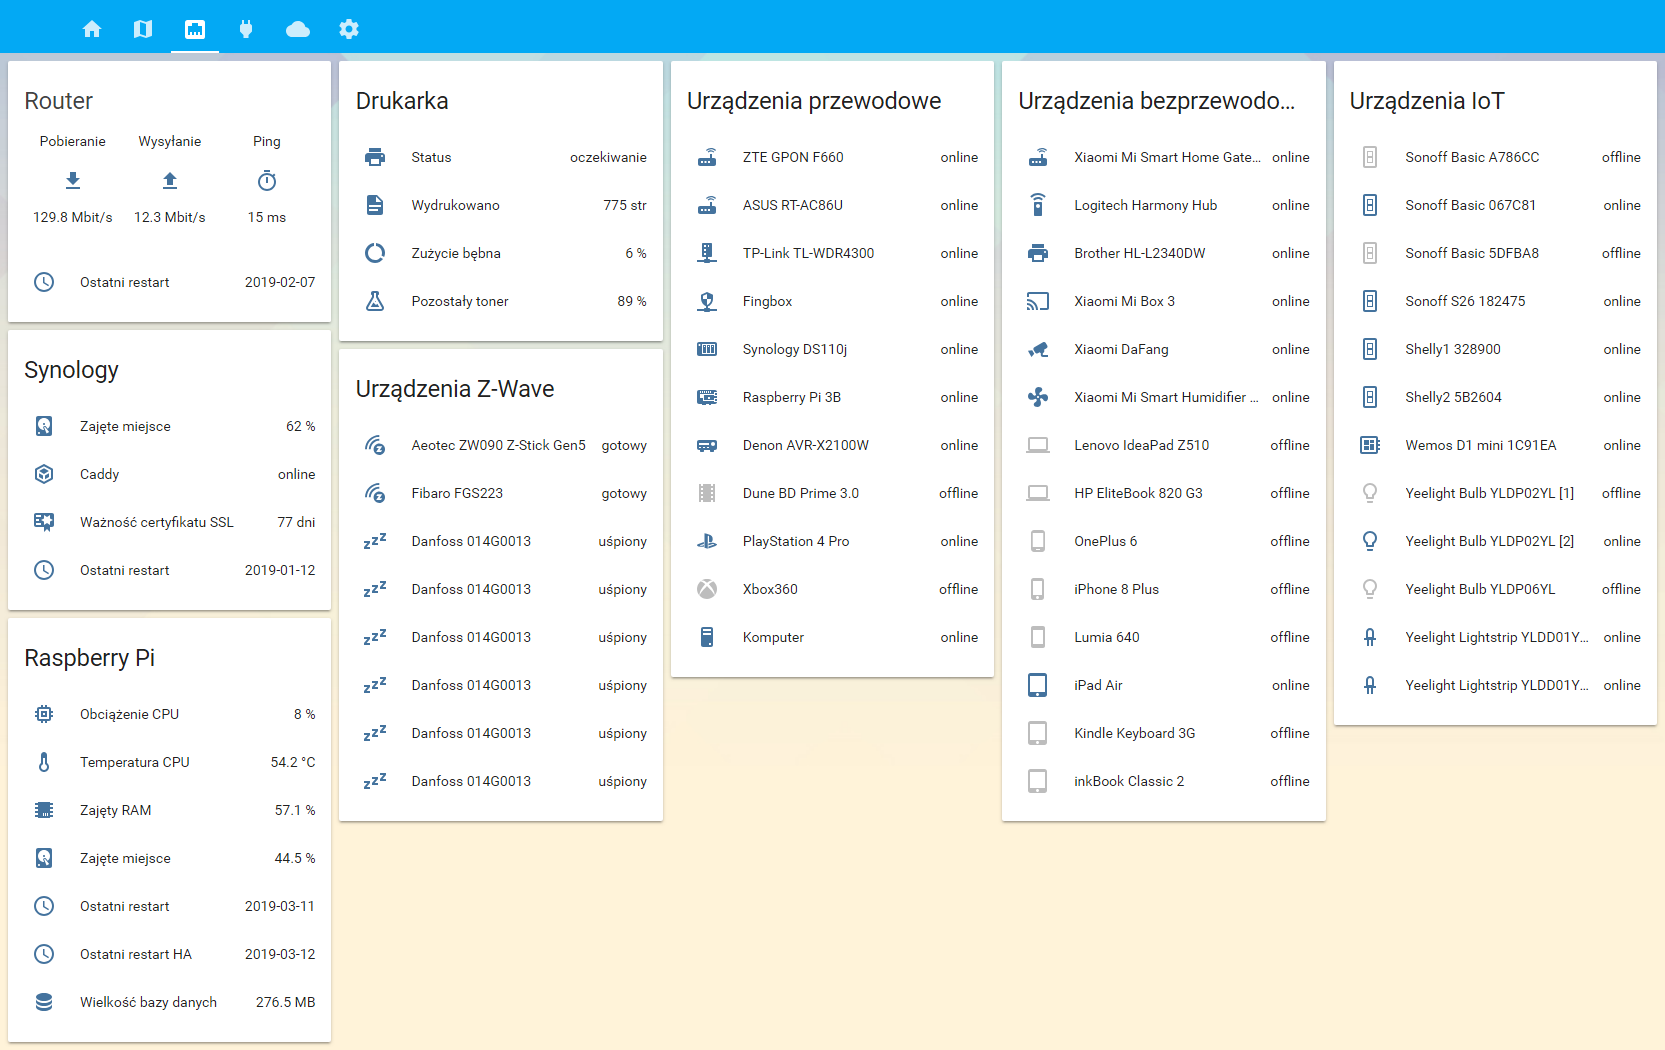
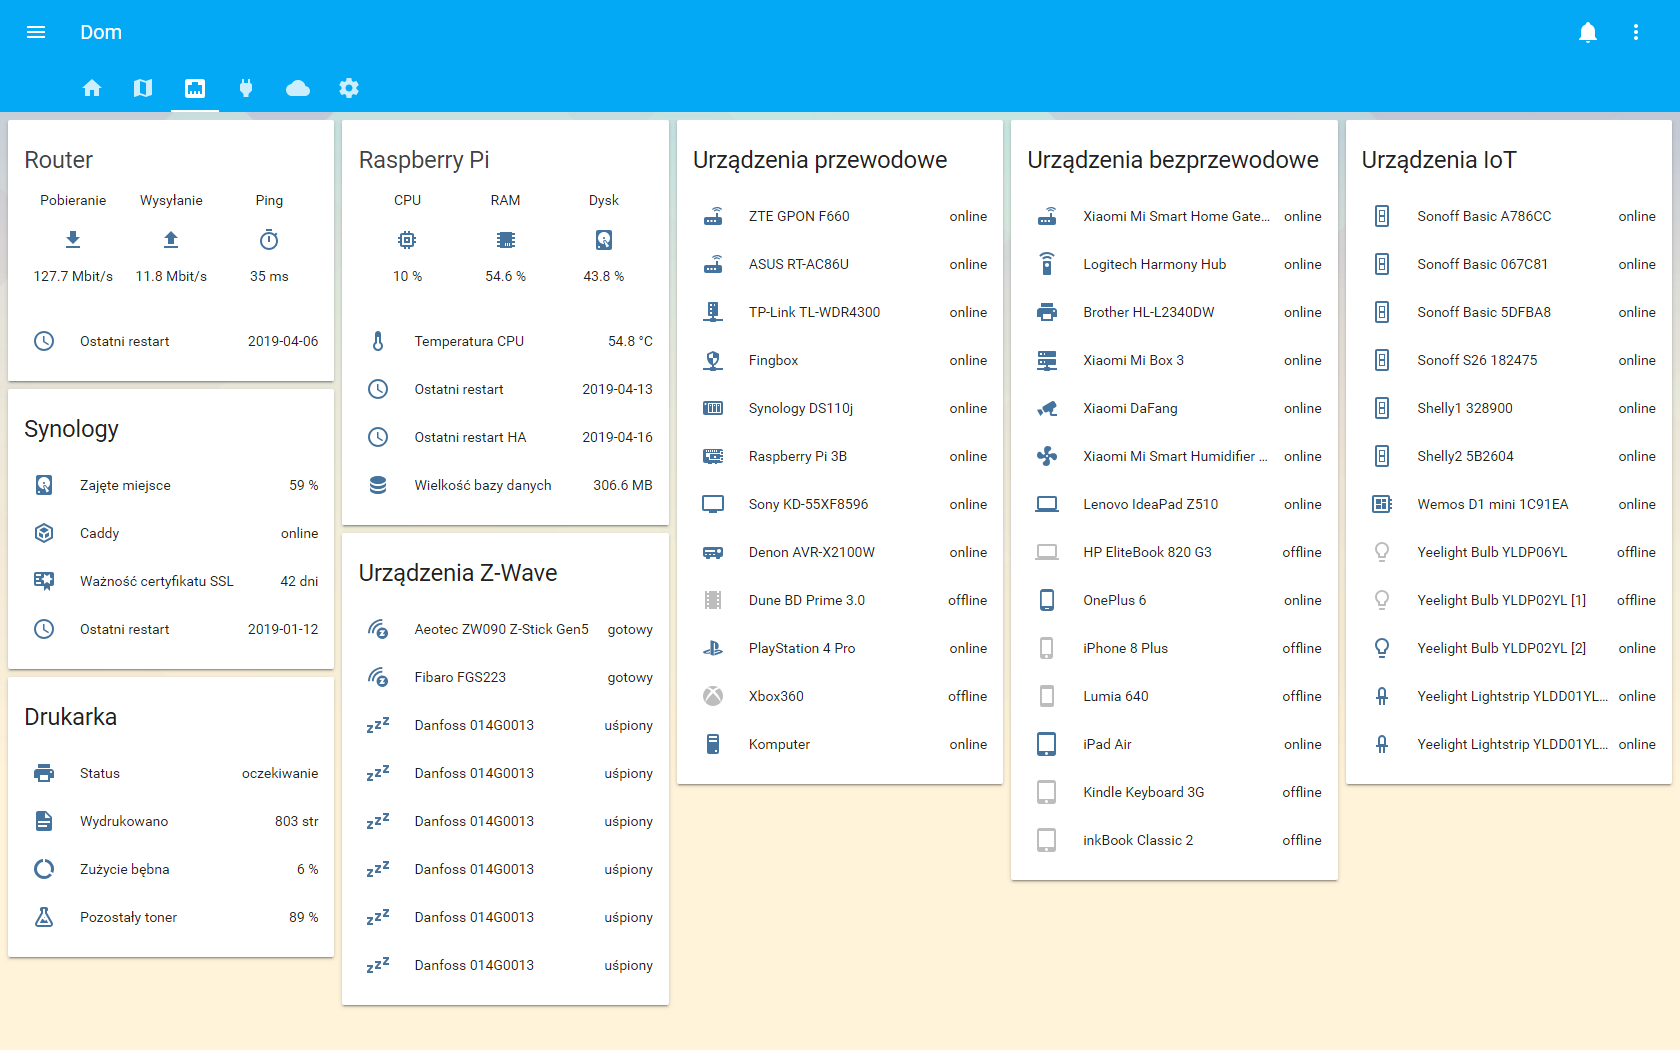
Update README.md file and new screenshots

diff --git a/README.md b/README.md
@@ -51,12 +51,13 @@
 * OnePlus 6 [Android phone by [Tasker](https://play.google.com/store/apps/details?id=net.dinglisch.android.taskerm)]
 * CyberPower DL650ELCD [UPS]
 * Xiaomi DaFang [camera with [custom firmware](https://github.com/EliasKotlyar/Xiaomi-Dafang-Hacks)]
+* Sony Bravia TV (Android TV) 
 
 ## Home Assistant Custom Components
 
 * [Custom Frontend](https://github.com/home-assistant/home-assistant/pull/10783)
 * [Custom Updater](https://github.com/custom-components/custom_updater)
-* [HANotify](https://github.com/MCrissDev/HANotify)
+* [Sony Bravia TV PSK](https://github.com/custom-components/media_player.braviatv_psk)
 
 ## Custom Panels
 
@@ -72,6 +73,7 @@
 * [monster-card](https://community.home-assistant.io/t/lovelace-bringing-back-entity-filter-monster-card/58701)
 * [card-tools](https://github.com/thomasloven/lovelace-card-tools)
 * [secondaryinfo-entity-row](https://github.com/MizterB/lovelace-secondaryinfo-entity-row)
+* [popup-card](https://github.com/thomasloven/lovelace-popup-card)
 
 ## AppDaemon
 
